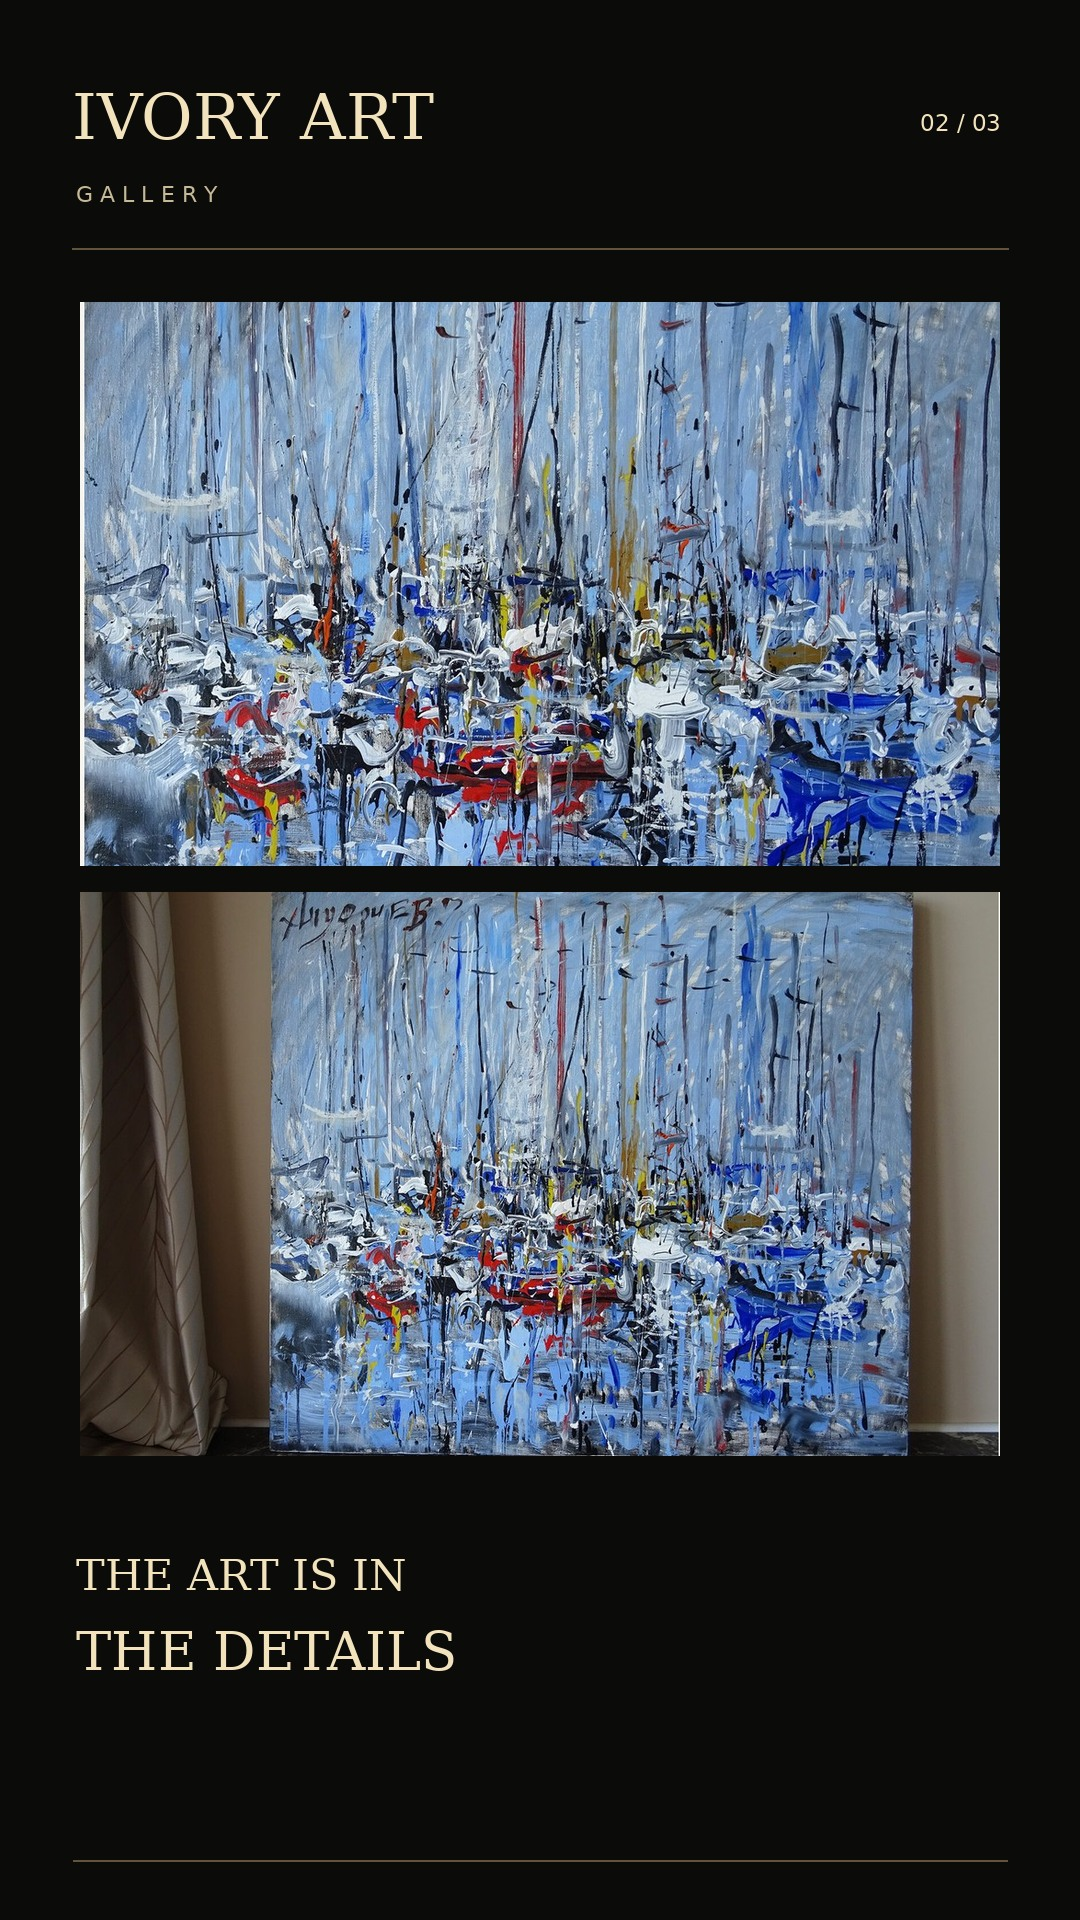
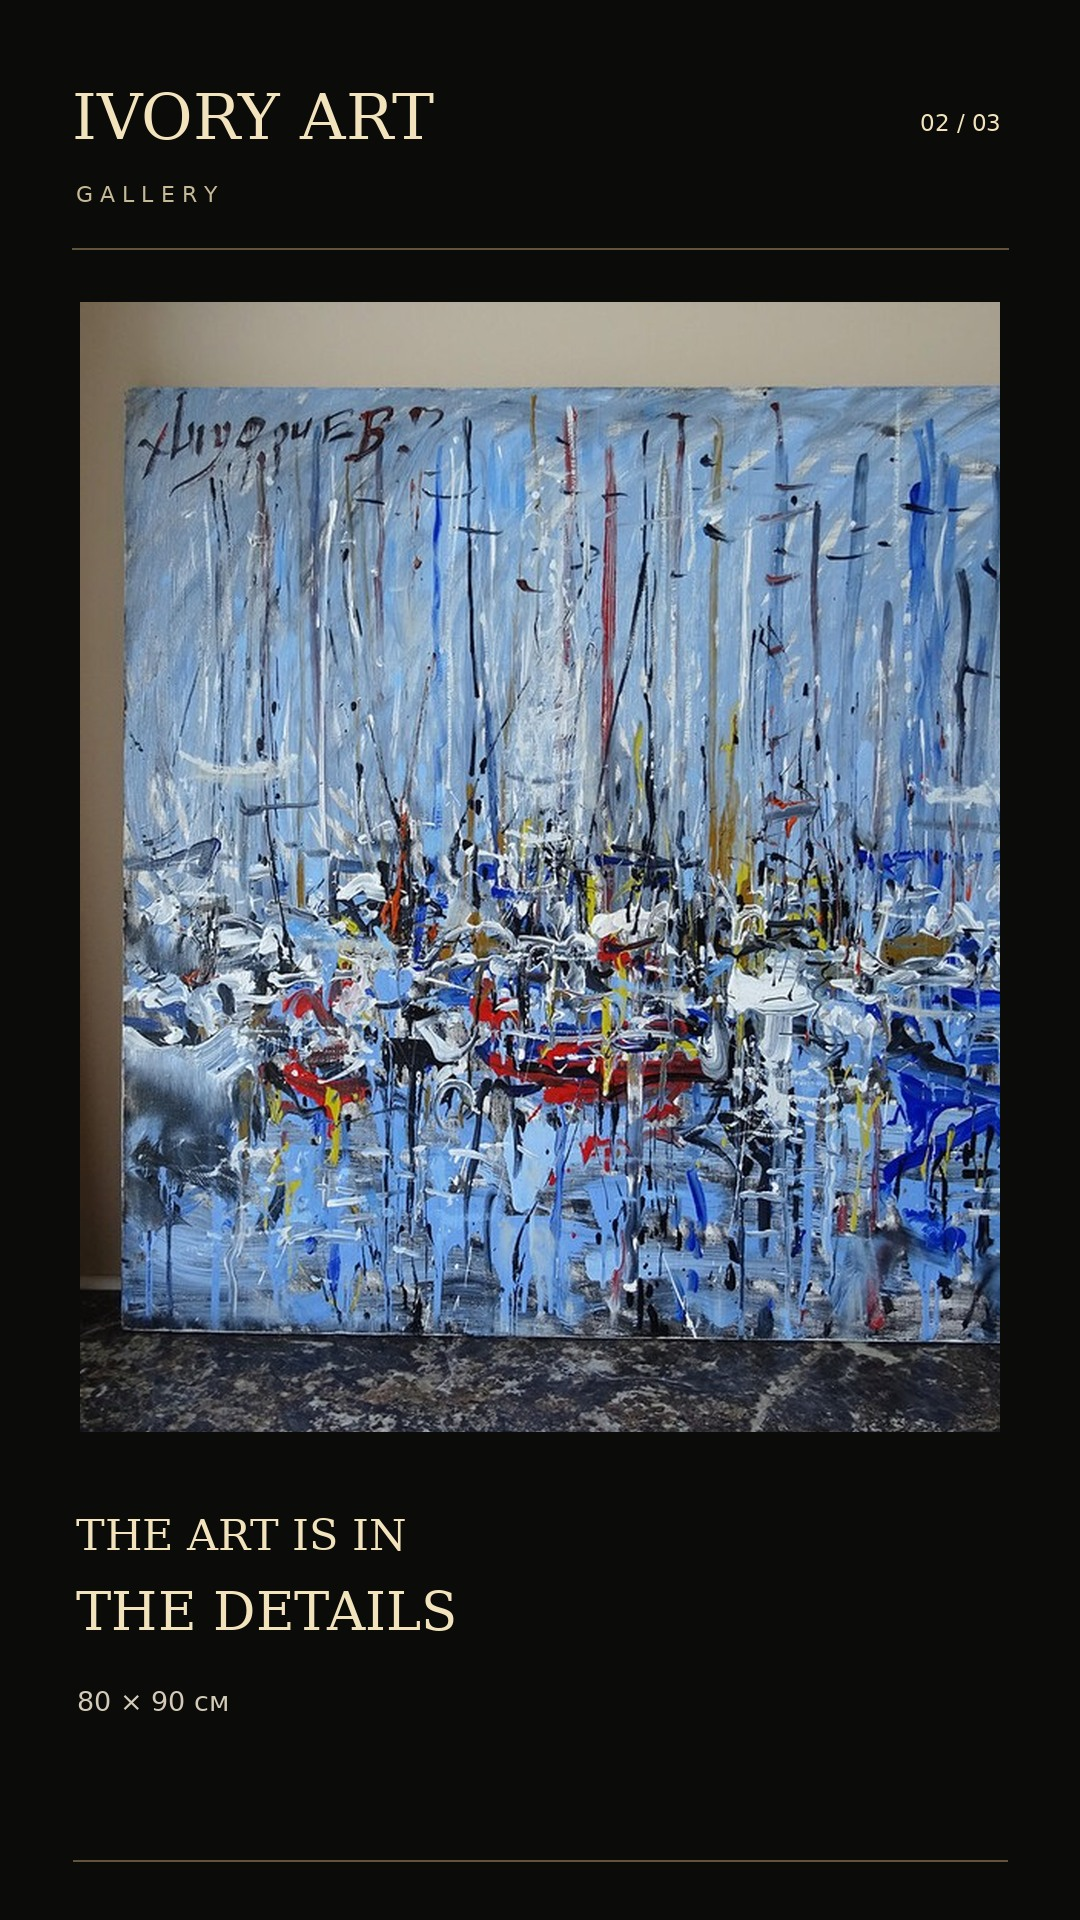
Filter Instagram calendar by format and simplify Story detail slides

diff --git a/admin-panel/index.html b/admin-panel/index.html
@@ -115,6 +115,8 @@ dialog::backdrop{background:#000b}
 <small>Цикл ленты: факт → картина → картина. Расписание предварительное, доставка зависит от Buffer.</small></div>
 <div class="between"><h2>Публикации Instagram · предпросмотр и тексты</h2><small id="igfacts-total"></small></div>
 <div class="filters"><button class="active" data-igfacts-filter="planned">По графику</button><button data-igfacts-filter="queue">Ожидают</button><button data-igfacts-filter="sent">Отправлены</button><button data-igfacts-filter="all">Все</button></div>
+<div class="filters" aria-label="Формат публикации"><button class="active" data-igformat="all">Все форматы</button><button data-igformat="story">Stories</button><button data-igformat="reel">Reels</button><button data-igformat="carousel">Карусели</button><button data-igformat="post">Посты</button><button data-igformat="fact">Факты</button></div>
+<div class="tools"><label for="ig-sort">Порядок в календаре</label><select id="ig-sort" aria-label="Порядок публикаций"><option value="asc">Сначала ближайшие</option><option value="desc">Сначала поздние</option></select></div>
 <div id="igfacts-list"><div class="placeholder">Загрузка публикаций…</div></div>
 <div class="panel"><h2>Статистика Instagram</h2><small id="ig-main-metrics-time">Нет данных</small><div id="ig-main-metrics-list" style="display:grid;gap:10px;margin-top:12px"></div><small>Данные Buffer обновляются примерно раз в сутки. Пустое значение не означает ноль.</small></div>
 </section>
@@ -142,7 +144,7 @@ dialog::backdrop{background:#000b}
 <script>
 const tg=window.Telegram?.WebApp;tg?.ready();tg?.expand();
 const init=tg?.initData||"";const $=id=>document.getElementById(id);
-const state={kind:"paintings",filter:"queue",data:null,edit:null,instagram:null,igFacts:null,igFactFilter:"planned",igFactEdit:null,igFactSlideEdit:null};
+const state={kind:"paintings",filter:"queue",data:null,edit:null,instagram:null,igFacts:null,igFactFilter:"planned",igFormatFilter:"all",igSort:"asc",igFactEdit:null,igFactSlideEdit:null};
 function showSection(kind){
  $("instagram-section").hidden=true;
  $("igfacts-section").hidden=kind!=="igfacts";
@@ -320,7 +322,9 @@ function renderEditorial(){
  }
  const mode=state.igFactFilter;
  const all=[...planned,...extras];
- const shown=all.filter(item=>mode==="all"||mode==="planned"&&item.status==="planned"||mode==="queue"&&["planned","queue"].includes(item.status)||mode==="sent"&&["sent","accepted","failed","uncertain","error"].includes(item.status));
+ const shown=all.filter(item=>(mode==="all"||mode==="planned"&&item.status==="planned"||mode==="queue"&&["planned","queue"].includes(item.status)||mode==="sent"&&["sent","accepted","failed","uncertain","error"].includes(item.status))
+  &&(state.igFormatFilter==="all"||state.igFormatFilter==="fact"&&item.kind==="fact"||state.igFormatFilter==="carousel"&&item.kind!=="fact"&&item.format==="carousel"||!["fact","carousel"].includes(state.igFormatFilter)&&item.format===state.igFormatFilter));
+ shown.sort((a,b)=>{const at=a.at||"",bt=b.at||"";if(!at)return bt?1:0;if(!bt)return -1;return state.igSort==="desc"?bt.localeCompare(at):at.localeCompare(bt)});
  text($("igfacts-total"),shown.length+" публикаций");
  const list=$("igfacts-list");list.replaceChildren();
  for(const item of shown){
@@ -387,6 +391,12 @@ for(const b of document.querySelectorAll("[data-igfacts-filter]"))b.onclick=()=>
  document.querySelectorAll("[data-igfacts-filter]").forEach(x=>x.classList.toggle("active",x===b));
  renderEditorial()
 };
+for(const b of document.querySelectorAll("[data-igformat]"))b.onclick=()=>{
+ state.igFormatFilter=b.dataset.igformat;
+ document.querySelectorAll("[data-igformat]").forEach(x=>x.classList.toggle("active",x===b));
+ renderEditorial()
+};
+$("ig-sort").onchange=e=>{state.igSort=e.target.value;renderEditorial()};
 for(const b of document.querySelectorAll("[data-kind]"))b.onclick=()=>{
  state.kind=b.dataset.kind;showSection(state.kind);err("");
  if(state.kind==="instagram"){checkInstagram();return}

diff --git a/admin-panel/instagram_story.py b/admin-panel/instagram_story.py
@@ -6,7 +6,7 @@ third-party music are requested, so automatic publishing can be attempted.
 from io import BytesIO
 from pathlib import Path
 
-from PIL import Image, ImageDraw, ImageFont, ImageOps
+from PIL import Image, ImageChops, ImageDraw, ImageFont, ImageOps
 
 
 def _font(size, serif=True):
@@ -61,7 +61,7 @@ def story_image(photo_bytes, title, artist):
 def story_triptych(photos, title, artist, dimensions=""):
     """Three distinct 9:16 branded images, preserving real painting pixels.
 
-    Slide 1: entire artwork. Slide 2: real detail crops.
+    Slide 1: entire artwork. Slide 2: one large authentic photo detail.
     Slide 3: entire artwork with a clear site CTA (non-clickable in image).
     """
     if not photos:
@@ -91,22 +91,28 @@ def story_triptych(photos, title, artist, dimensions=""):
             d.text((74,1624),title,font=_fit_text(title,52,923),fill="#f6f0e3")
             d.text((74,1720),artist,font=_fit_text(artist,31,920,False),fill="#cfc3ad")
         elif slide==2:
-            # Crops show authentic photo detail; never synthesize new painting.
-            for pos,(img,focus) in enumerate(((main,.2),(detail,.78))):
-                w,h=920,564
-                scale=max(w/img.width,h/img.height)*1.08
-                iw,ih=int(img.width*scale),int(img.height*scale)
-                frame=img.resize((iw,ih),Image.Resampling.LANCZOS)
-                ox=min(max(0,int((iw-w)*focus)),iw-w)
-                oy=(ih-h)//2
-                frame=frame.crop((ox,oy,ox+w,oy+h))
-                canvas.paste(frame,(80,302+pos*590))
+            # A single authentic detail keeps the composition clear on a phone.
+            # Prepared images may contain a pale preservation mat; exclude it
+            # from the close crop so it does not become a large empty stripe.
+            corner=detail.getpixel((0,0))
+            if all(channel >= 225 for channel in corner):
+                diff=ImageChops.difference(detail,Image.new("RGB",detail.size,corner))
+                bounds=diff.convert("L").point(lambda value: 255 if value>30 else 0).getbbox()
+                if bounds and (bounds[2]-bounds[0])*(bounds[3]-bounds[1]) > detail.width*detail.height*.12:
+                    detail=detail.crop(bounds)
+            w,h=920,1130
+            scale=max(w/detail.width,h/detail.height)*1.06
+            iw,ih=int(detail.width*scale),int(detail.height*scale)
+            frame=detail.resize((iw,ih),Image.Resampling.LANCZOS)
+            ox=(iw-w)//2
+            oy=(ih-h)//2
+            canvas.paste(frame.crop((ox,oy,ox+w,oy+h)),(80,302))
             d=ImageDraw.Draw(canvas)
-            d.text((76,1550),"THE ART IS IN",font=_font(43),fill="#f2e3bc")
-            d.text((76,1620),"THE DETAILS",font=_font(53),fill="#f2e3bc")
+            d.text((76,1510),"THE ART IS IN",font=_font(43),fill="#f2e3bc")
+            d.text((76,1580),"THE DETAILS",font=_font(53),fill="#f2e3bc")
             dimension=str(dimensions or "")[:84]
             if dimension:
-                d.text((77,1710),dimension,font=_fit_text(dimension,27,920,False),fill="#d3cab8")
+                d.text((77,1685),dimension,font=_fit_text(dimension,27,920,False),fill="#d3cab8")
         else:
             photo=main.copy()
             photo.thumbnail((850,1070),Image.Resampling.LANCZOS)

diff --git a/scripts/prepare_instagram_assets.py b/scripts/prepare_instagram_assets.py
@@ -70,7 +70,7 @@ async def prepare(post, existing, style):
             "gallery_source": source, "images": photos, "reel": reel,
             "reel_style": style if reel else None,
             "stories": story_urls, "story": story_urls[0],
-            "creative_version": 3,
+            "creative_version": 4,
             "music": "Original IVORY ART instrumental ambient: " + style,
             "reel_fps": 30 if reel else None}
 
@@ -87,7 +87,7 @@ async def main(limit):
     retries = [p for p in posts if identity(p) in records and
                (not records[identity(p)].get("reel") or not records[identity(p)].get("story")
                 or records[identity(p)].get("reel_fps", 0) < 23
-                or records[identity(p)].get("creative_version", 0) < 3)]
+                or records[identity(p)].get("creative_version", 0) < 4)]
     scan = retries[:12] + [posts[(cursor + offset) % len(posts)] for offset in range(min(12, len(posts)))]
     for post in scan:
         ident = identity(post)
@@ -95,7 +95,7 @@ async def main(limit):
         style = 'cinematic' if posts.index(post) % 2 == 0 else 'luxury'
         if (ident in records and records[ident].get("reel") and records[ident].get("story")
                 and records[ident].get("reel_fps", 0) >= 23
-                and records[ident].get("creative_version", 0) >= 3):
+                and records[ident].get("creative_version", 0) >= 4):
             continue
         try:
             result = await prepare(post, records.get(ident), style)

diff --git a/admin-panel/tests/test_instagram_creatives.py b/admin-panel/tests/test_instagram_creatives.py
@@ -34,6 +34,16 @@ class CreativeSafetyTests(unittest.TestCase):
                 self.assertEqual(img.size, (1080, 1920))
                 self.assertEqual(img.format, "JPEG")
 
+    def test_detail_slide_has_one_photo_not_two_stacked_photos(self):
+        first, second = BytesIO(), BytesIO()
+        Image.new("RGB", (740, 490), "#cb3333").save(first, "JPEG")
+        Image.new("RGB", (740, 490), "#246cb1").save(second, "JPEG")
+        slide = story_triptych([first.getvalue(), second.getvalue()], "Artwork", "Artist")[1]
+        with Image.open(BytesIO(slide)) as image:
+            for y in (370, 850, 1390):
+                r, g, b = image.getpixel((540, y))
+                self.assertGreater(b, r + 35)
+
     def test_luxury_and_cinematic_reels_use_distinct_frames(self):
         art = Image.new("RGB", (580, 420), "#ab9582")
         f1 = draw_frame(4, [art, art], "Artwork", "Artist", "cinematic")
